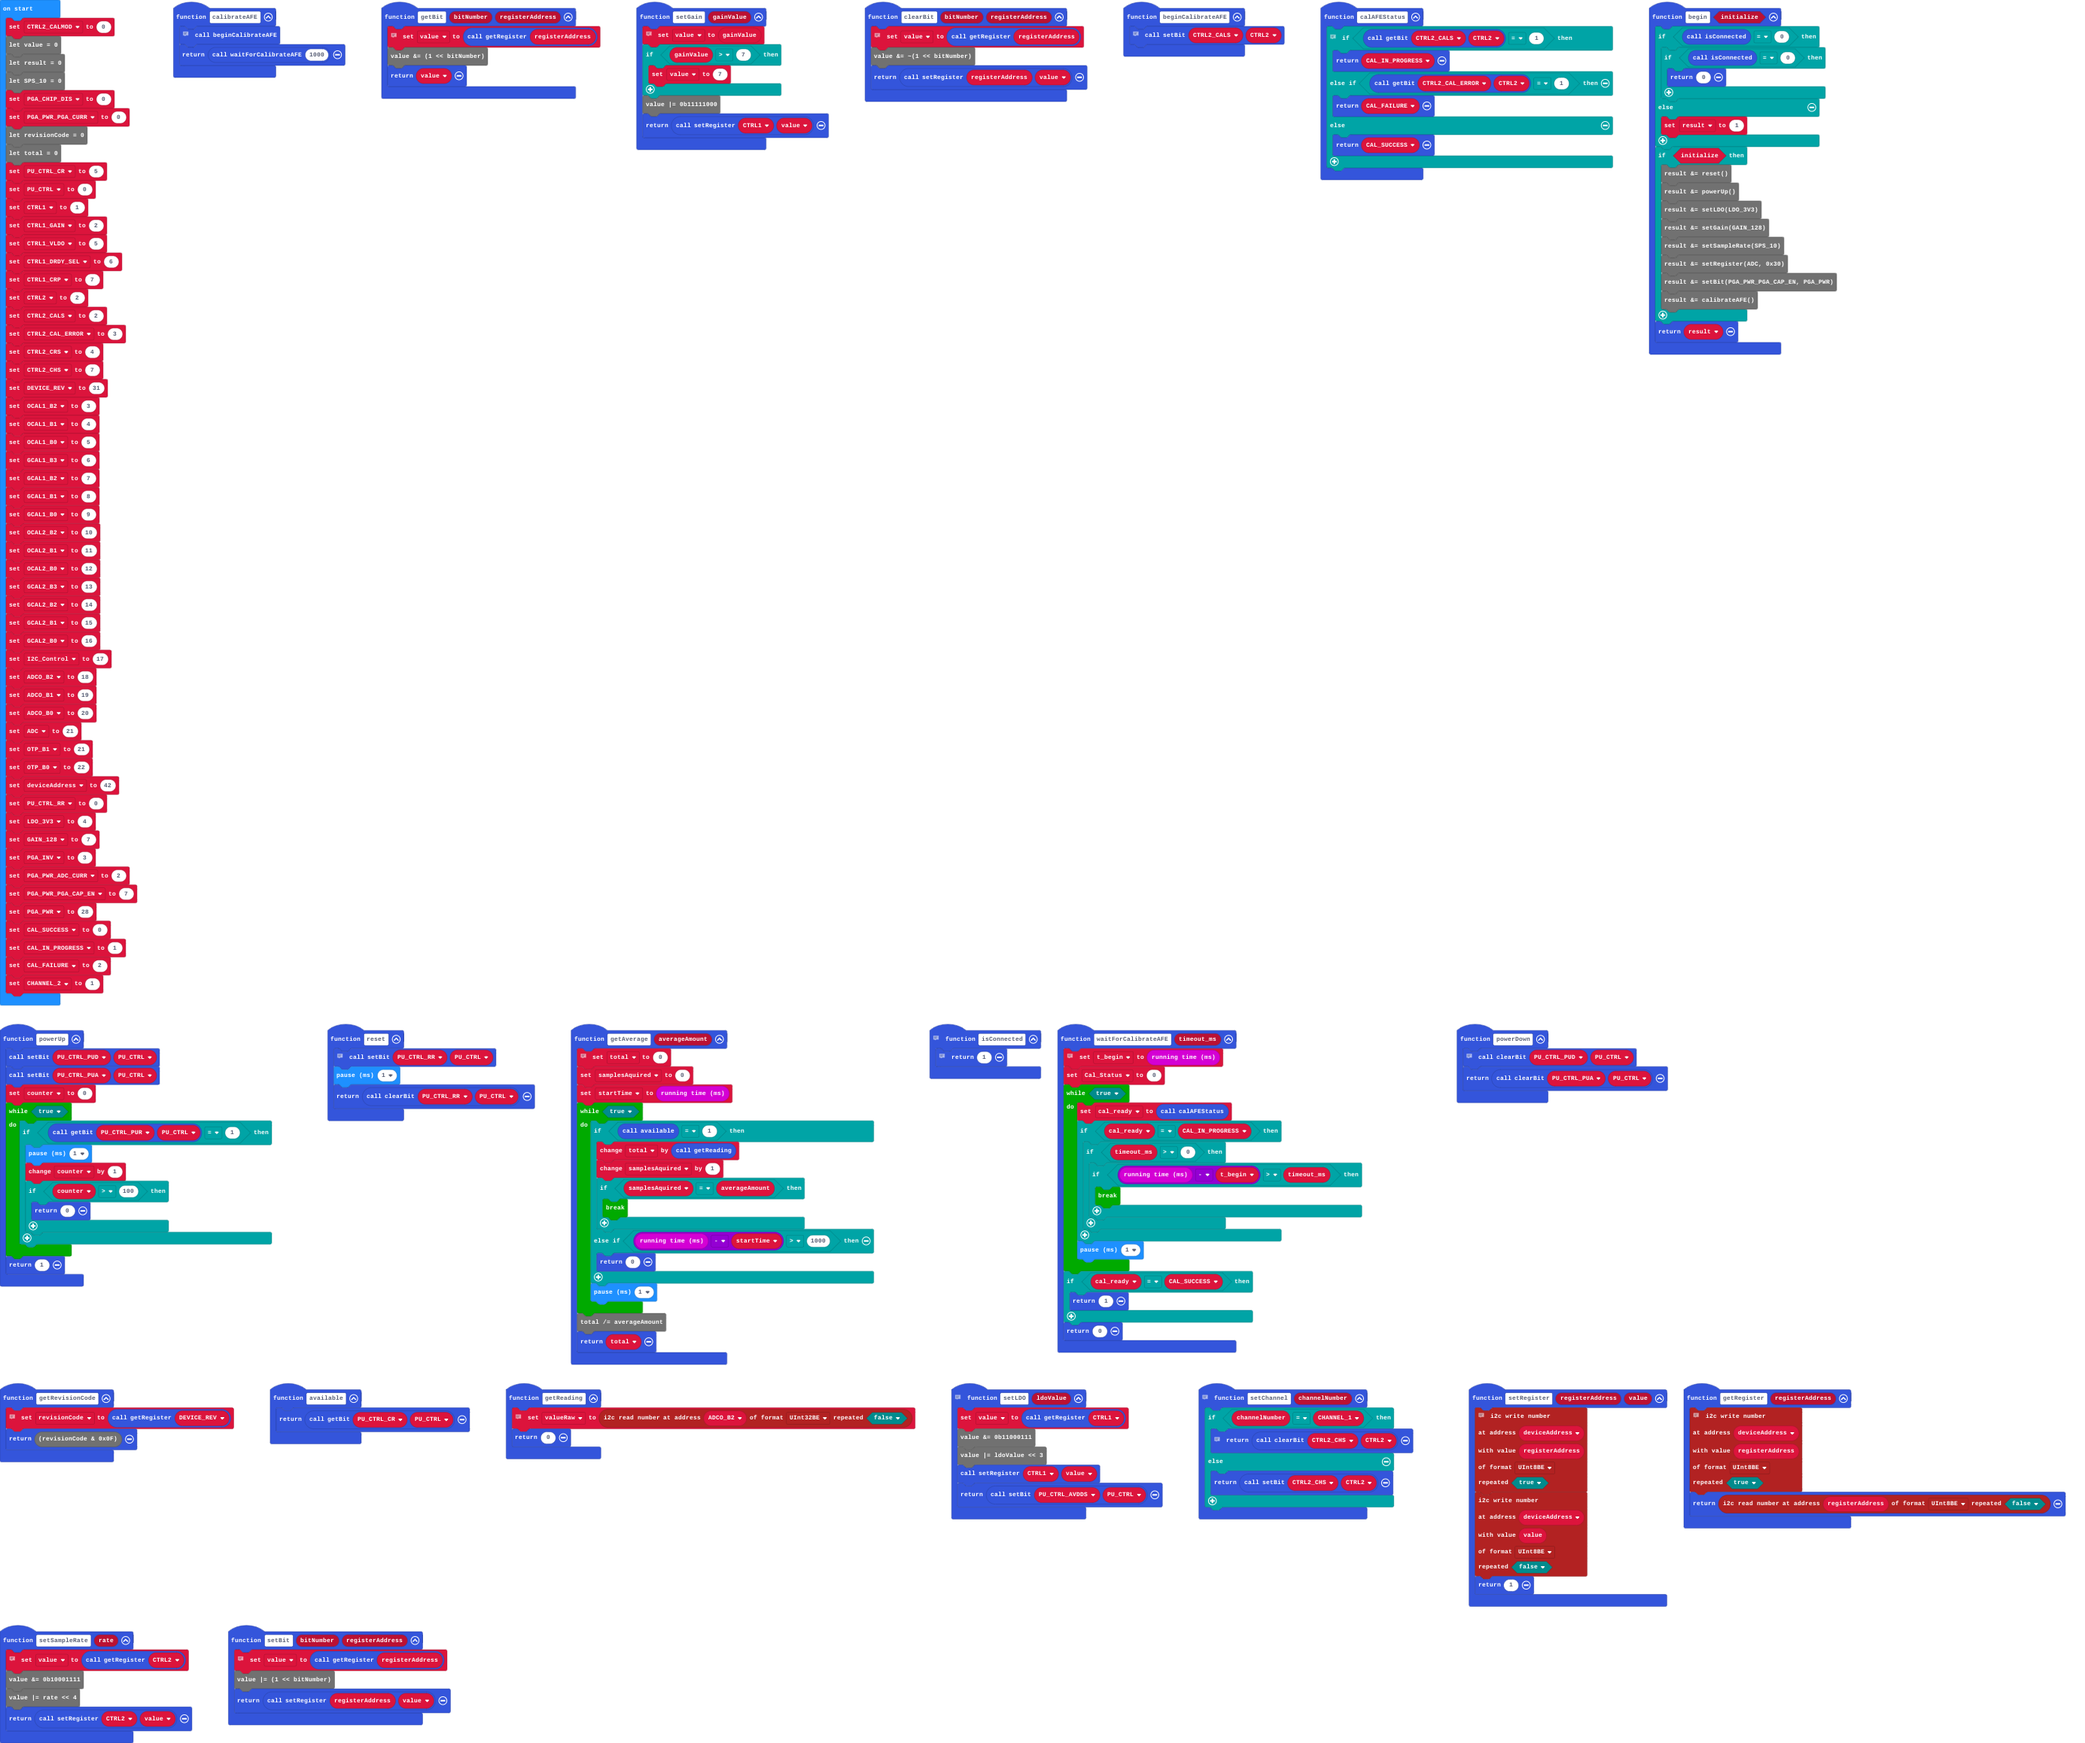
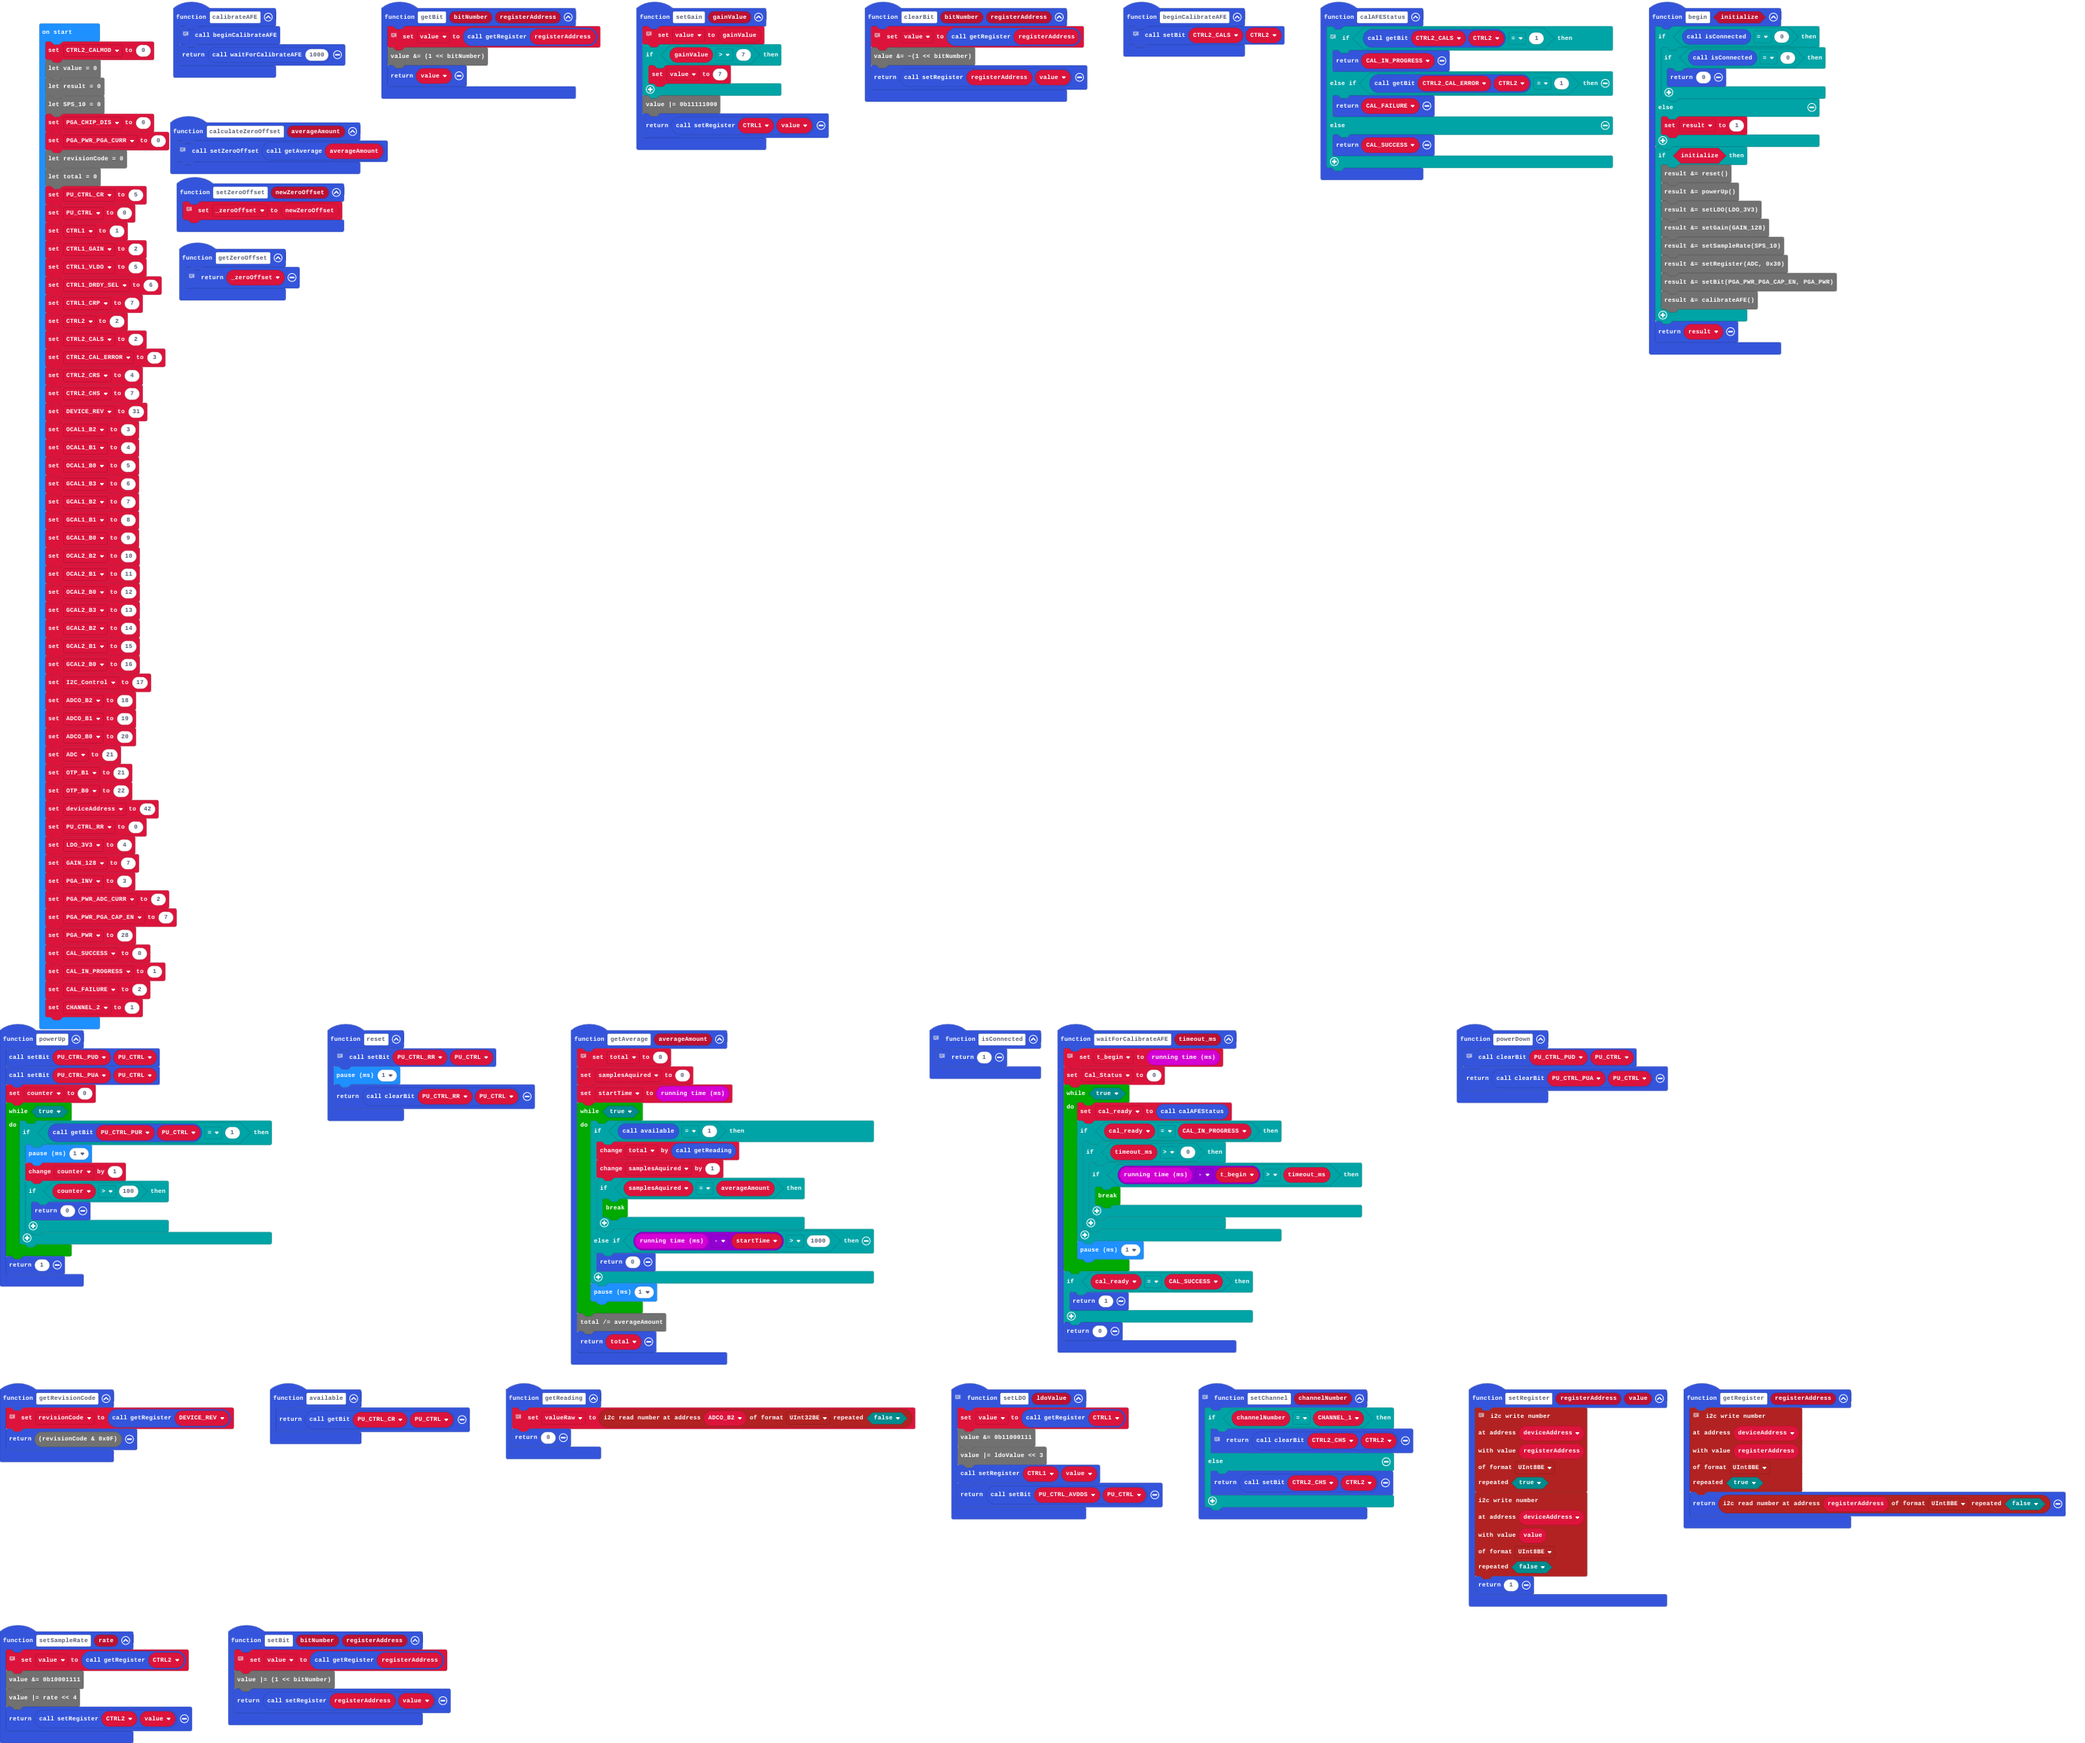
done Offset functions

Changed region(s): [[0.0, 0.0, 0.1863, 0.5907]]

diff --git a/main.ts b/main.ts
@@ -33,6 +33,10 @@ function setGain (gainValue: number) {
     value |= 0b11111000
 return setRegister(CTRL1, value)
 }
+function setZeroOffset (newZeroOffset: number) {
+    // line 299
+    _zeroOffset = newZeroOffset
+}
 // line 199
 function setLDO (ldoValue: number) {
     let PU_CTRL_AVDDS = 0
@@ -64,6 +68,10 @@ function calAFEStatus () {
 }
 function available () {
     return getBit(PU_CTRL_CR, PU_CTRL)
+}
+function calculateZeroOffset (averageAmount: number) {
+    // line 293
+    setZeroOffset(getAverage(averageAmount))
 }
 function begin (initialize: boolean) {
     if (isConnected() == 0) {
@@ -130,6 +138,10 @@ function setChannel (channelNumber: number) {
     } else {
         return setBit(CTRL2_CHS, CTRL2)
     }
+}
+function getZeroOffset () {
+    // line 304
+    return _zeroOffset
 }
 function setBit (bitNumber: number, registerAddress: number) {
     // line 360
@@ -211,6 +223,7 @@ let samplesAquired = 0
 let counter = 0
 let PU_CTRL_PUA = 0
 let PU_CTRL_PUD = 0
+let _zeroOffset = 0
 let CAL_FAILURE = 0
 let CAL_IN_PROGRESS = 0
 let CAL_SUCCESS = 0
